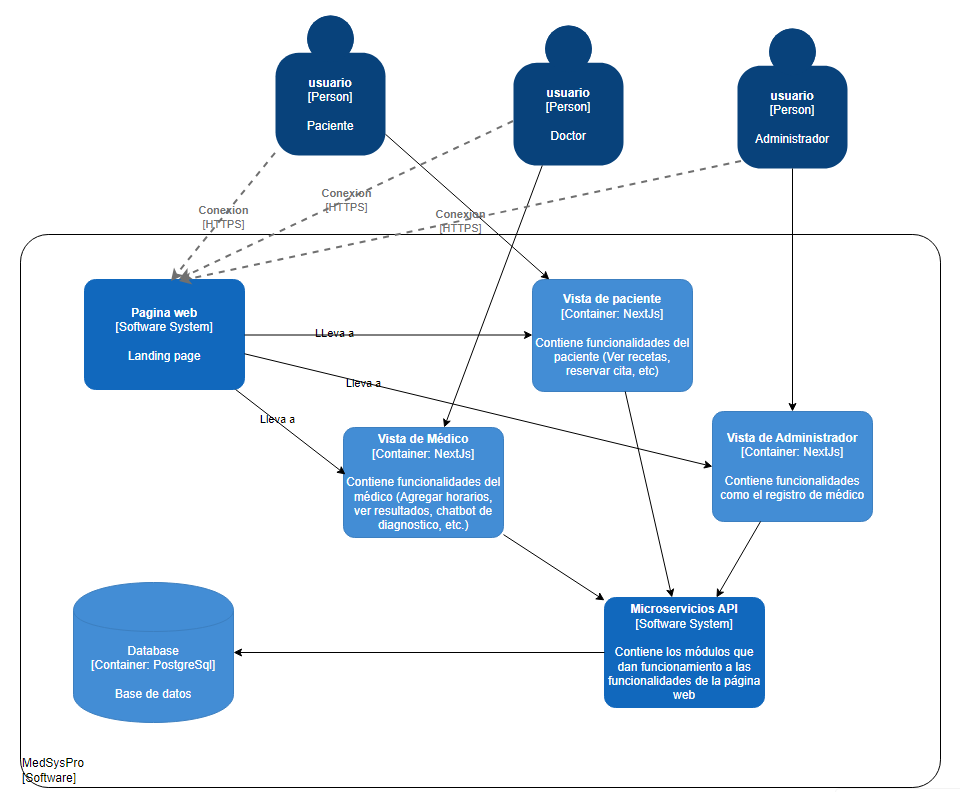
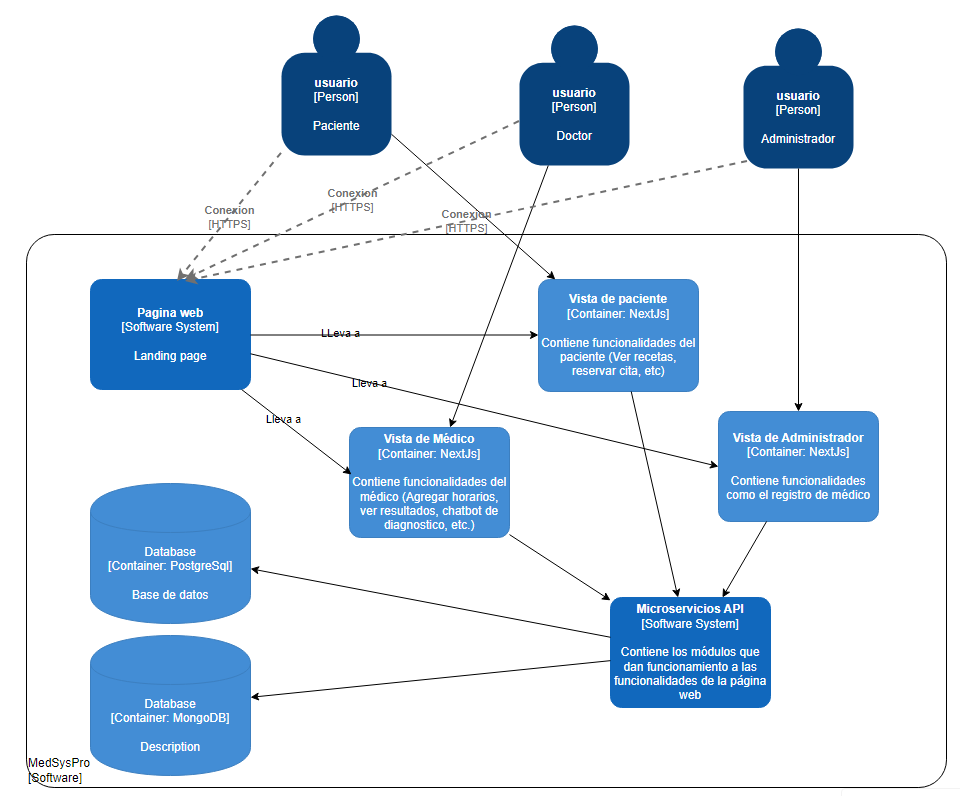
diagrama de componentes (FALTA ARREGLAR) pipipi muchos modulos

diff --git a/5/5.3/5.3.md b/5/5.3/5.3.md
@@ -1,3 +1,3 @@
 # 5.3. Componentes
 
-Sample content for section 5.3.
+![](Componentes.png)
